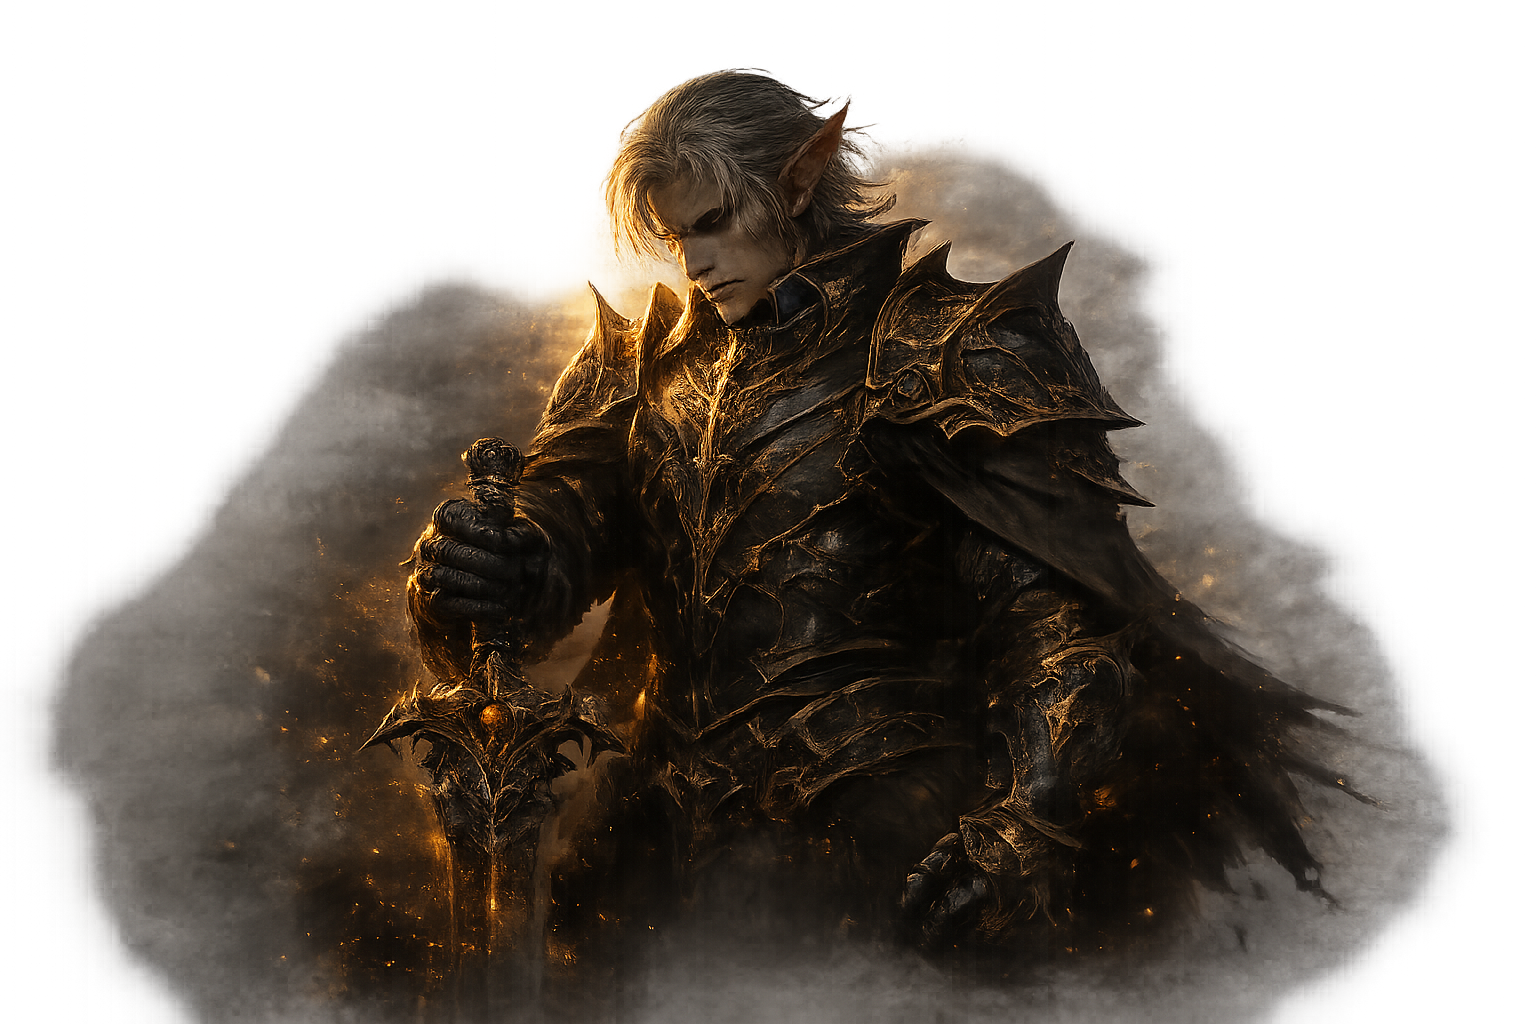
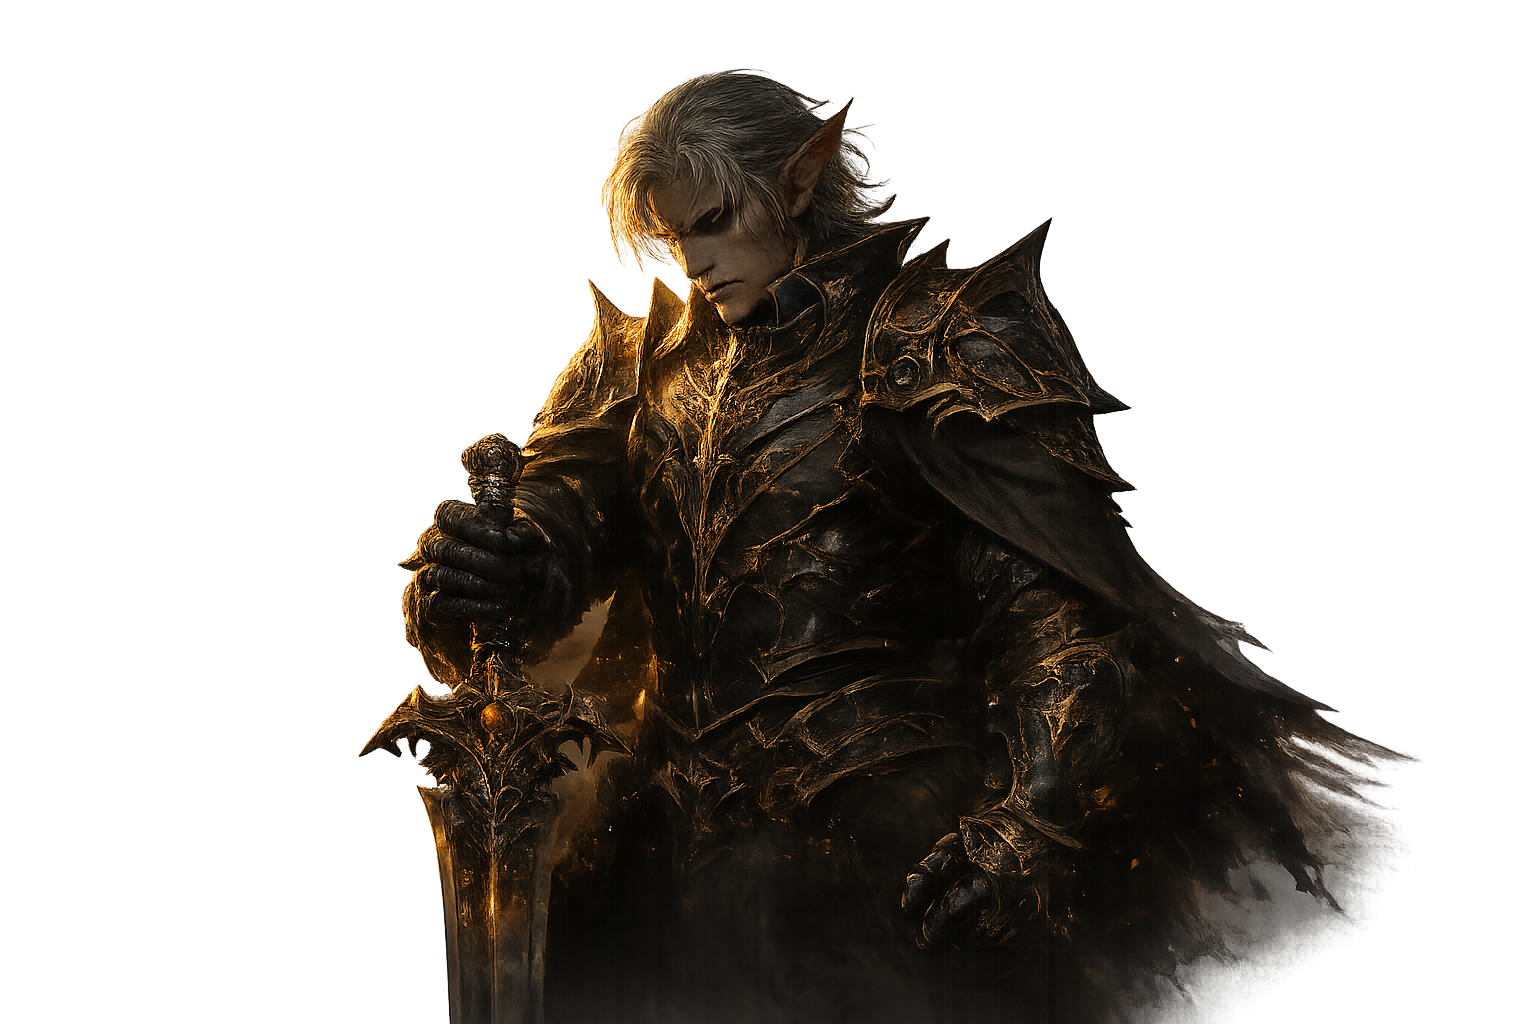
fix: новый арт персонажа, точная обрезка по грудь, только волосы торчат, затемнение 62%

diff --git a/frontend/src/app/page.module.css b/frontend/src/app/page.module.css
@@ -33,31 +33,32 @@
   z-index: 0;
 }
 
-/* Персонаж — голова торчит выше блока, низ срезается на уровне груди */
+/* Персонаж — только волосы торчат выше, грудь = нижняя граница */
 .heroChar {
   position: absolute;
   right: 1%;
-  top: -38%;
-  height: 210%;
+  top: -10%;
+  height: 185%;
   width: auto;
   pointer-events: none;
   user-select: none;
   z-index: 2;
-  /* Верх: плавное появление (голова над блоком)
-     Низ: исчезает на ~63% высоты изображения (уровень груди)
-     Бока: срезаем серый дым */
+  /* Затемнение */
+  filter: brightness(0.62);
+  /* Верх: чуть над головой → прозрачно → волосы появляются плавно
+     Низ: грудь (~54%) → исчезает
+     Бока: убираем серый фон */
   mask-image:
-    linear-gradient(to bottom, transparent 0%, black 10%, black 62%, transparent 74%),
-    linear-gradient(to right,  transparent 6%, black 20%, black 82%, transparent 95%);
+    linear-gradient(to bottom, transparent 0%, black 7%, black 54%, transparent 65%),
+    linear-gradient(to right, transparent 4%, black 16%, black 90%, transparent 100%);
   -webkit-mask-image:
-    linear-gradient(to bottom, transparent 0%, black 10%, black 62%, transparent 74%),
-    linear-gradient(to right,  transparent 6%, black 20%, black 82%, transparent 95%);
+    linear-gradient(to bottom, transparent 0%, black 7%, black 54%, transparent 65%),
+    linear-gradient(to right, transparent 4%, black 16%, black 90%, transparent 100%);
   mask-composite: intersect;
   -webkit-mask-composite: source-in;
-  opacity: .95;
 }
 
-@media (max-width: 900px) { .heroChar { height: 175%; top: -30%; right: -1%; } }
+@media (max-width: 900px) { .heroChar { height: 160%; top: -8%; right: -1%; } }
 @media (max-width: 660px) { .heroChar { display: none; } }
 
 .heroLeft  { position: relative; z-index: 1; display: flex; flex-direction: column; gap: .7rem; }
